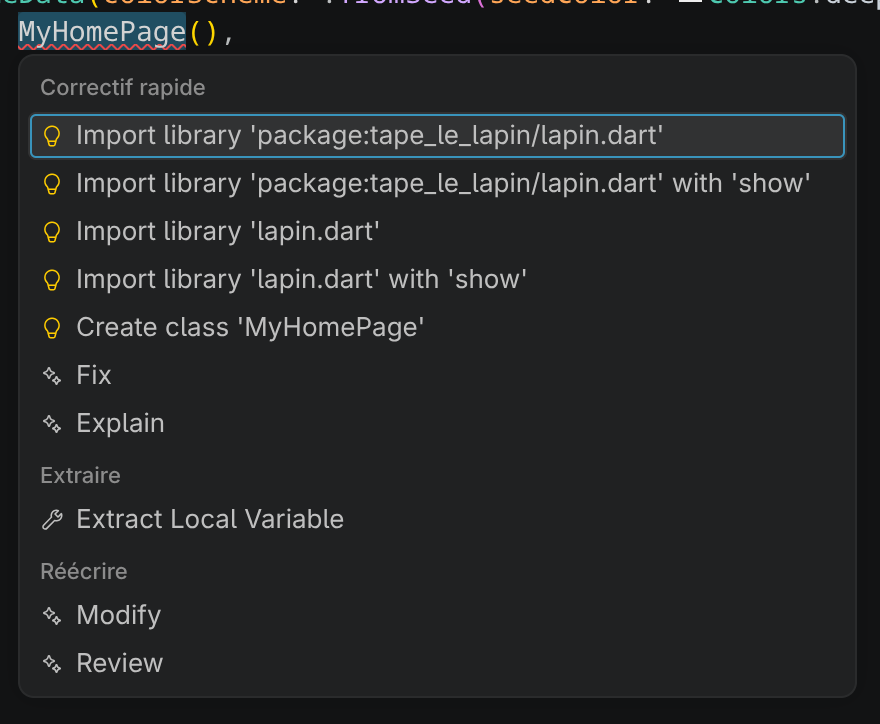
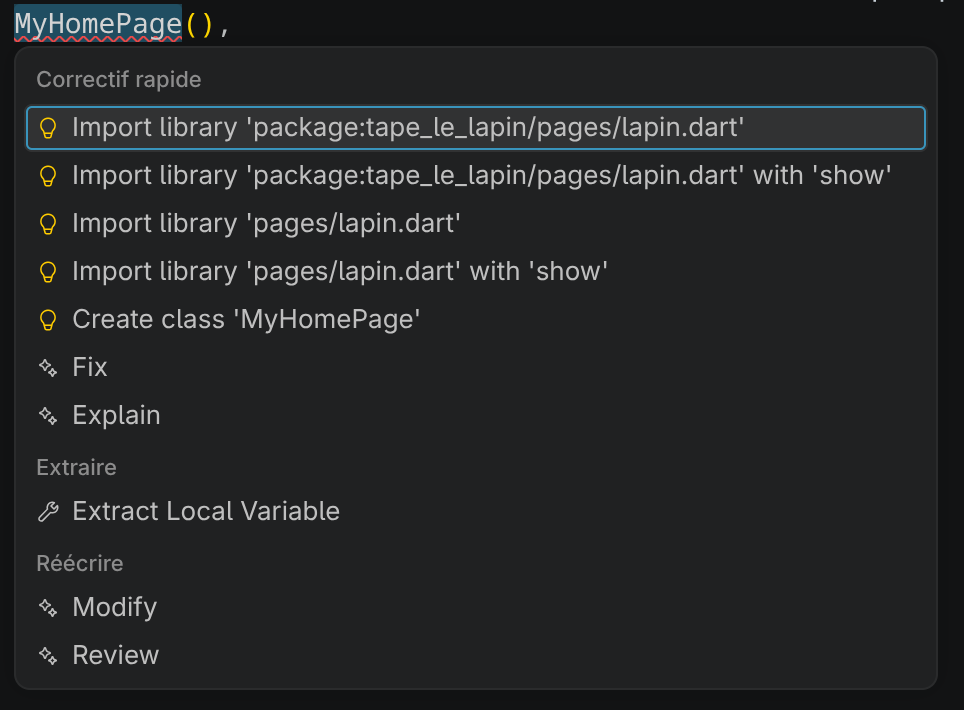
fix import

diff --git a/code/tape_le_lapin/lib/main.dart b/code/tape_le_lapin/lib/main.dart
@@ -1,5 +1,5 @@
 import 'package:flutter/material.dart';
-import 'package:tape_le_lapin/lapin.dart';
+import 'package:tape_le_lapin/pages/lapin.dart';
 
 void main() {
   runApp(const MyApp());
